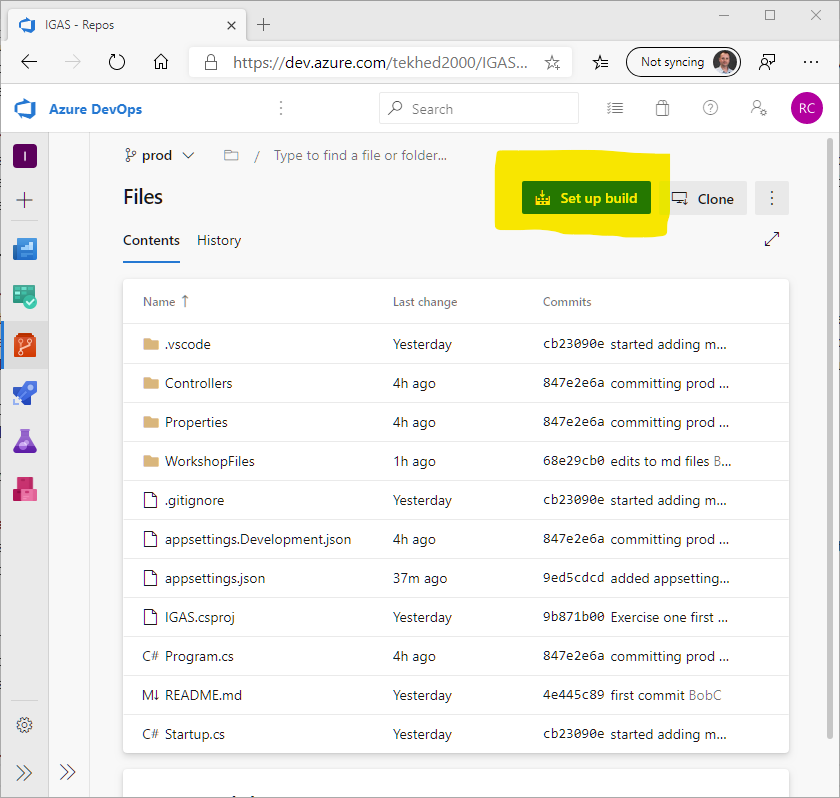
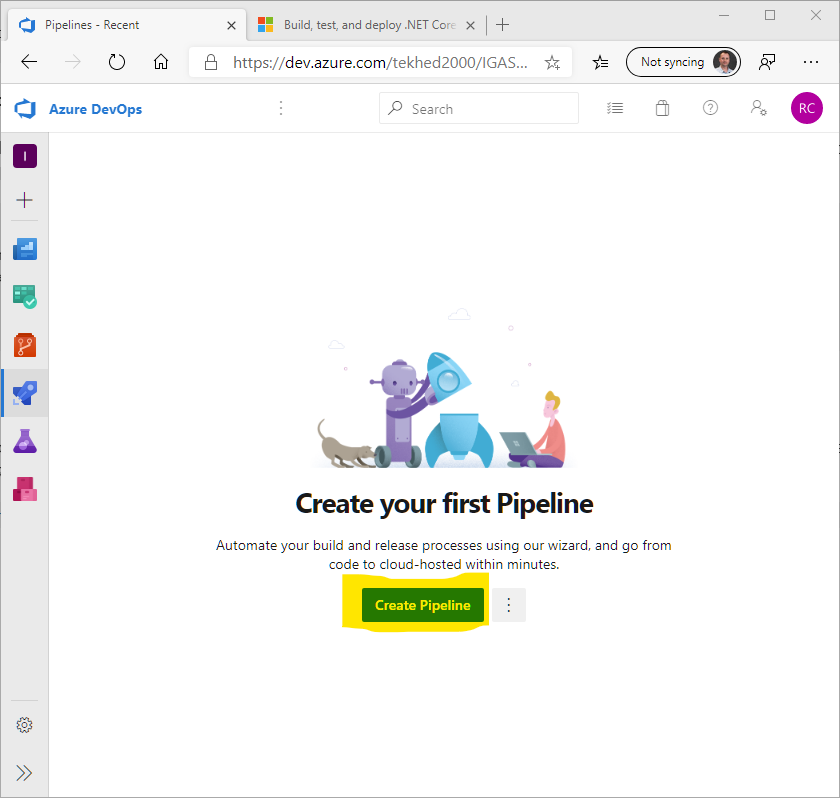
Continue exercise 2

diff --git a/WorkshopFiles/content/exercise_2.md b/WorkshopFiles/content/exercise_2.md
@@ -46,3 +46,19 @@ The appsettings file has been modified to include a few fictitious settings. The
  ## Setup a Build
  We don't have a lot of work to do in the Build pipeline. There are no configuration steps included here (though you could), we just need to have a published project to deploy in the Release pipeline. It is in the Release Pipeline that we will manage configuration.
  > [More information on Build pipelines](https://docs.microsoft.com/en-us/azure/devops/pipelines/ecosystems/dotnet-core?view=azure-devops#package-and-deliver-your-code)
+
+1. Click on the Rocket Ship icon to open Pipelines and then click "Create Pipeline"
+1. Choose Azure Repos Git YAML
+1. Select the IGAS Git code repository
+1. Select Existing Azure Pipelines YAML file. 
+1. Select the "prod" branch and "azure-pipelines.yml" file.
+1. Click run to build the project and produce an artifact that will be deployed later in a Release pipeline.
+1. Review the successful deployment.
+
+  | Step 1 | Step 2 | Step 3 | 
+ | --- | --- | --- |
+ | ![Step 1](./img/build_1.png) | ![Step 2](./img/build_2.png) | ![Step 3](./img/build_3.png) |
+ | **Step 4** | **Step 5** | **Step 6**| 
+ | ![Step 4](./img/build_4.png) | ![Step 5](./img/build_5.png) | ![Step 6](./img/build_6.png) |
+  | **Step 7** |  | | 
+ | ![Step 4](./img/build_7.png) | | |
